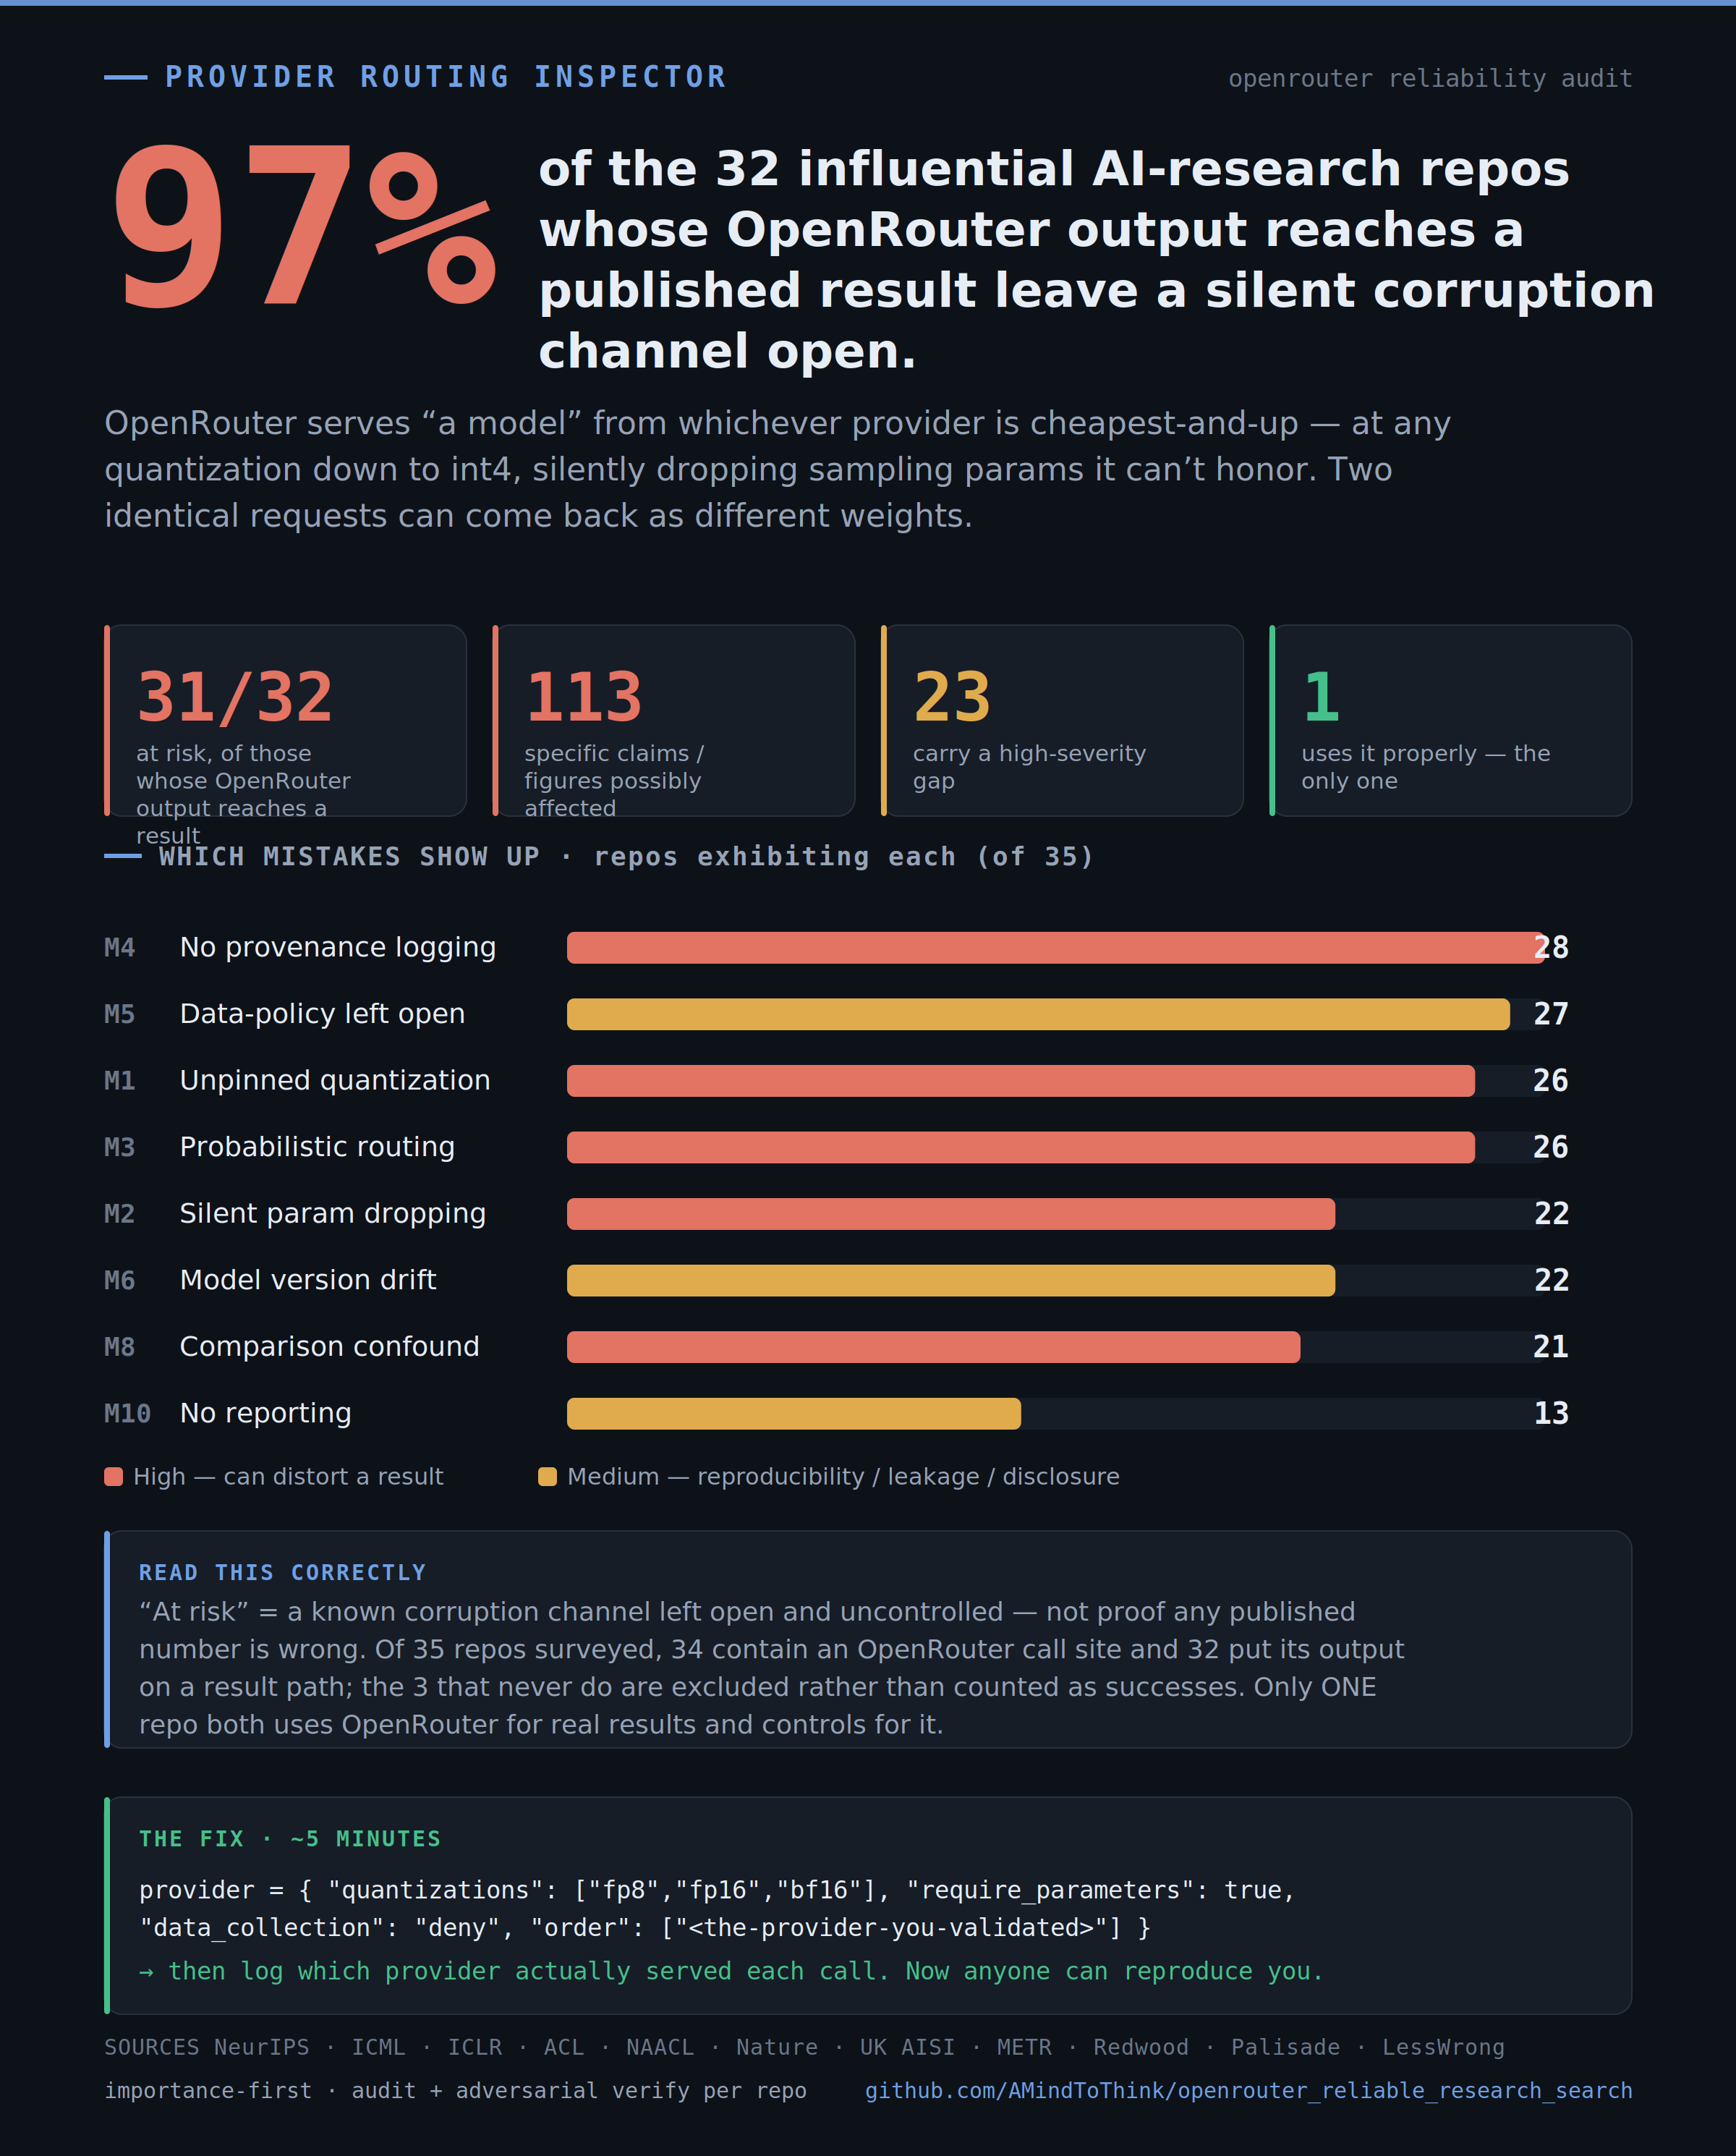
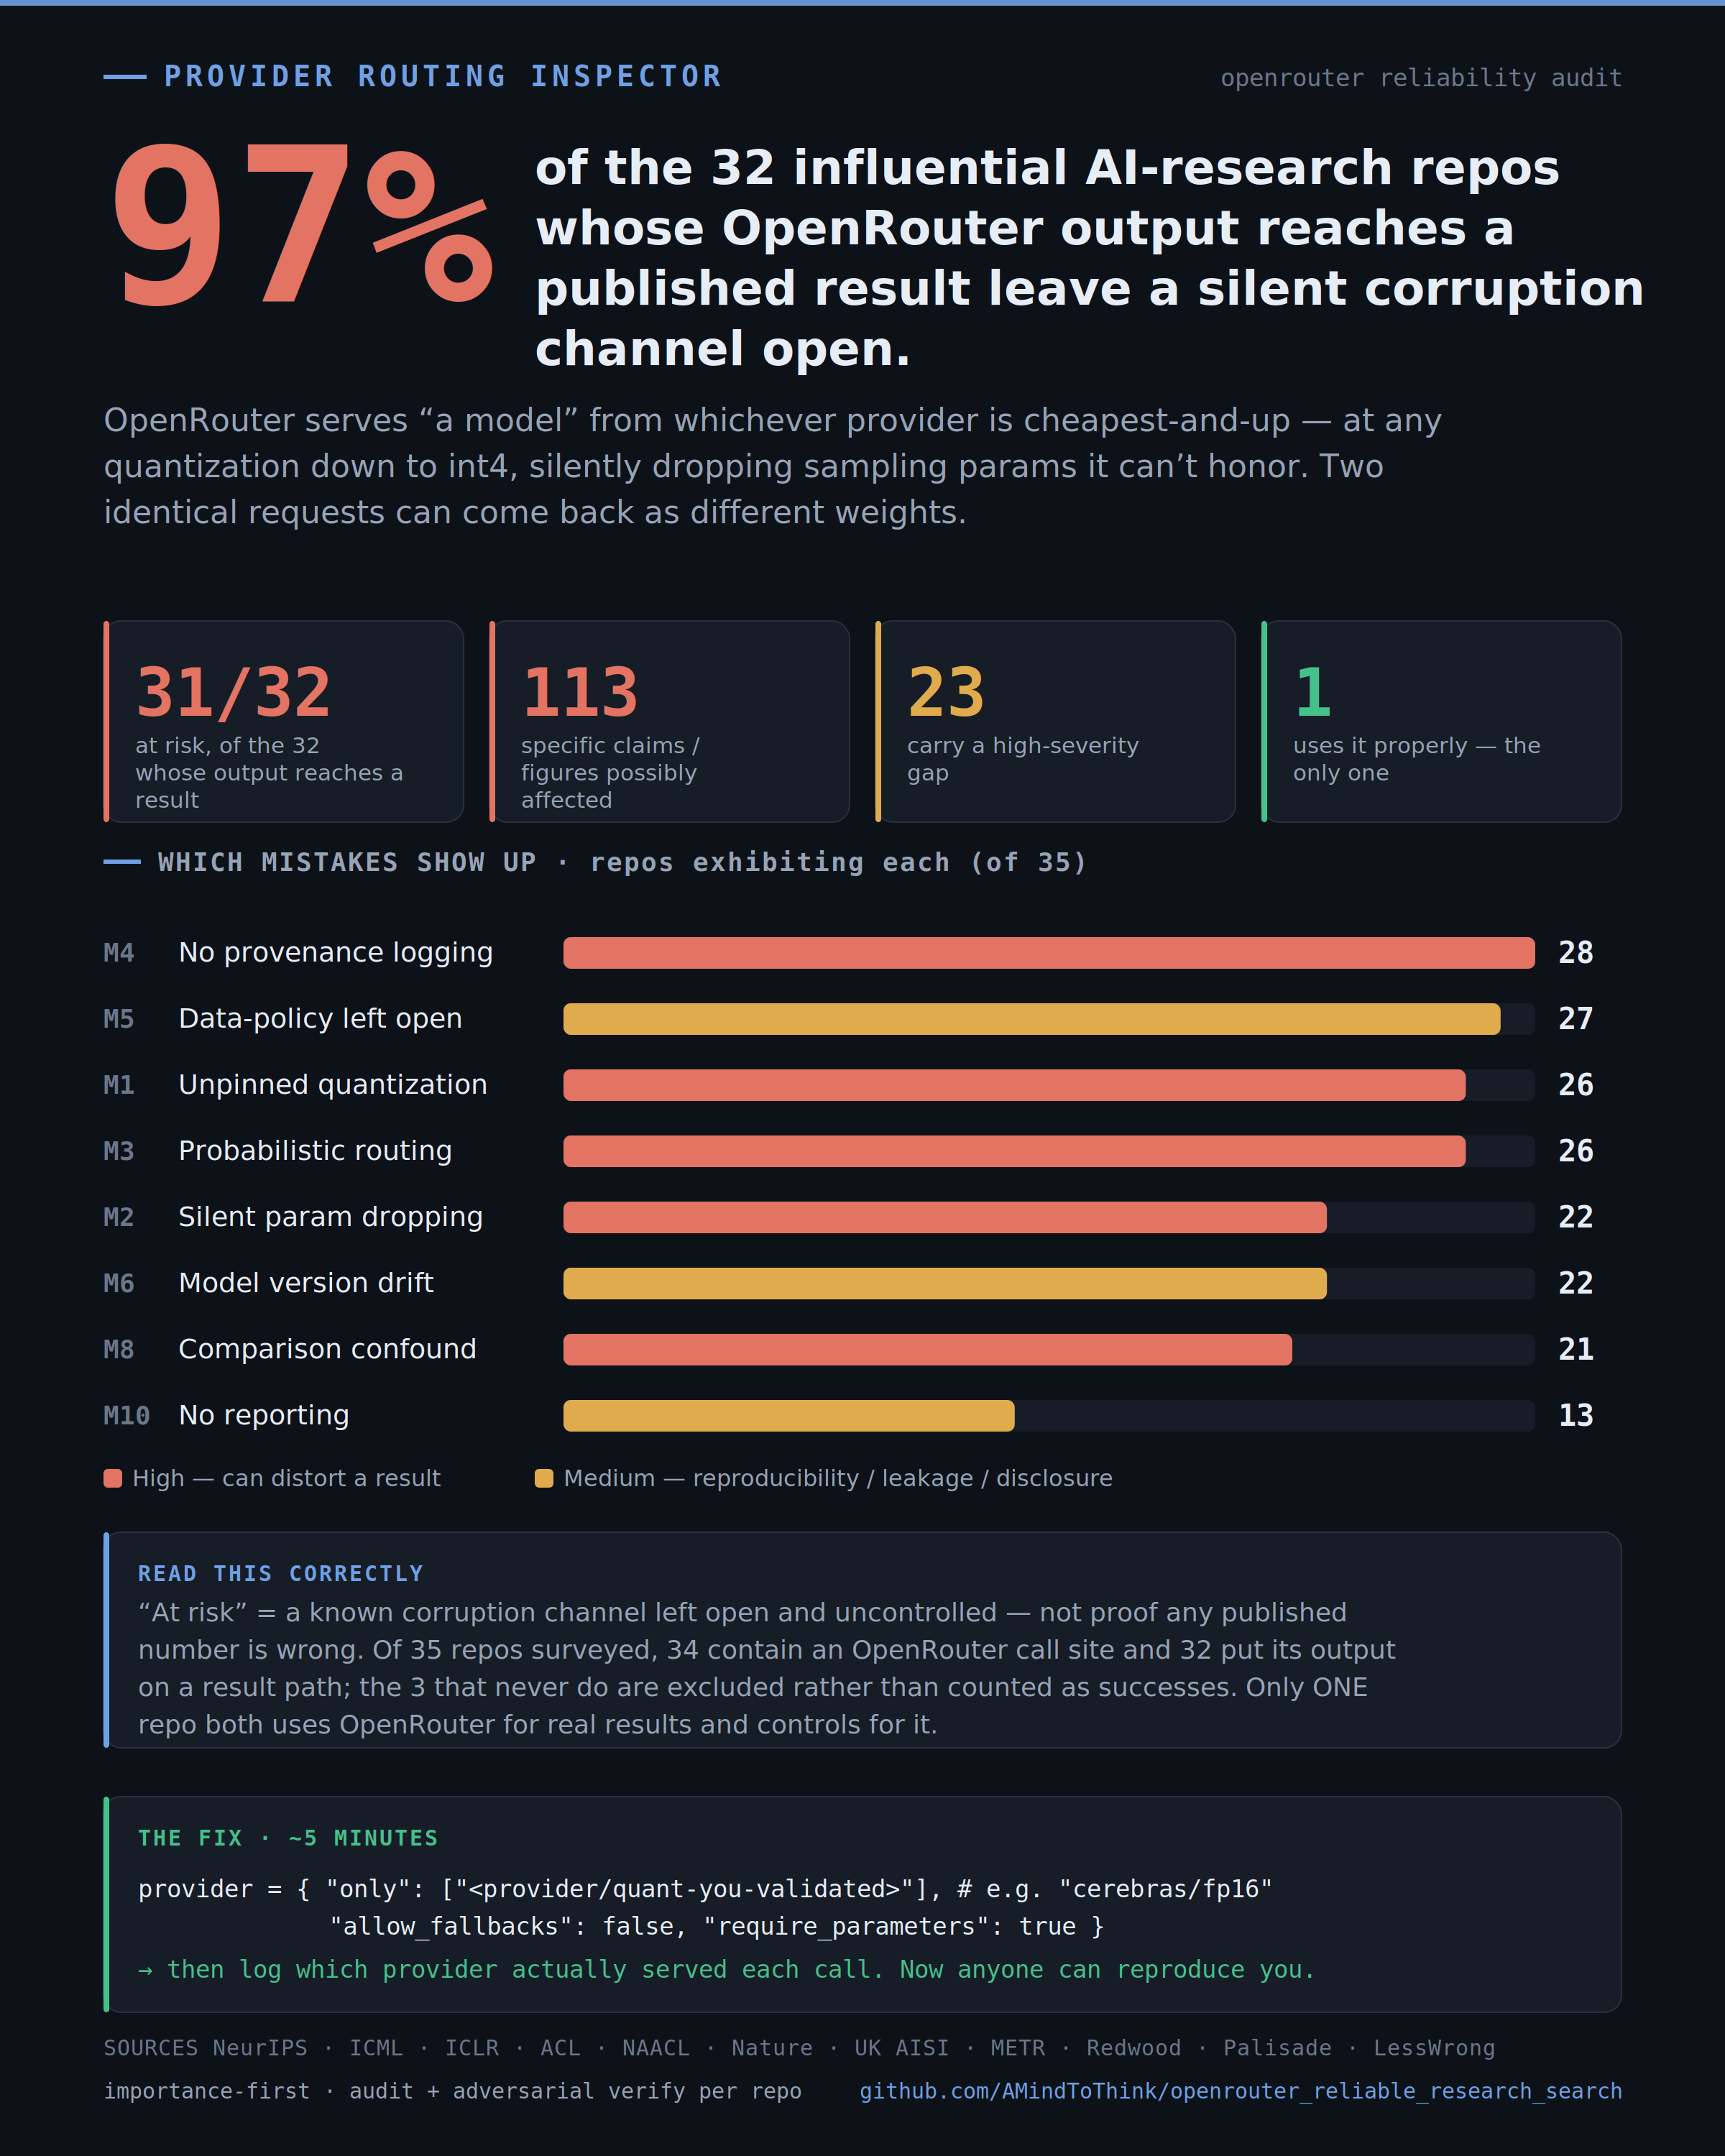
Poster: show the hard pin as THE FIX, and stop text escaping its boxes
The fix panel showed the quantization-floor preset (quantizations list +
order + data_collection) — the exact config the project's own skill and
blog say NOT to lead with for result-bearing research. Replace it with
the canonical hard pin: only:["<provider/quant>"] endpoint tag,
allow_fallbacks:false, require_parameters:true. data_collection is a
privacy knob, not a result-integrity one, so it leaves the poster.

Layout fixes: tile captions no longer overflow (taller tiles, shorter
first caption, loud failure if a caption wraps past 3 lines); bar counts
move fully right of the track instead of overlapping the longest bars;
the code continuation line indents geometrically since SVG collapses
leading spaces.

Claude-Session: https://claude.ai/code/session_017X9fJAWUxTfke6APrKHnS5

diff --git a/scripts/make_poster.py b/scripts/make_poster.py
@@ -45,7 +45,7 @@ SHORT = {"M1":"Unpinned quantization","M2":"Silent param dropping","M3":"Probabi
  "M7":"seed → determinism","M8":"Comparison confound","M9":"Unconstrained judge",
  "M10":"No reporting","M11":"Silent backend mixing","M12":"Cheap route chosen"}
 MONO="DejaVu Sans Mono, monospace"; SANS="DejaVu Sans, sans-serif"
-W, H = 1200, 1490
+W, H = 1200, 1500
 def e(s): return html.escape(str(s), quote=True)
 
 def wrap(text, maxc):
@@ -91,17 +91,20 @@ sub = wrap("OpenRouter serves “a model” from whichever provider is cheapest-
 y = multiline(M, 300, sub, 22, 32, fill=C["muted"])
 
 # stat tiles
-tiles = [(f"{AT_RISK}/{CRIT}", "at risk, of those whose OpenRouter output reaches a result", C["high"]),
+tiles = [(f"{AT_RISK}/{CRIT}", f"at risk, of the {CRIT} whose output reaches a result", C["high"]),
          (str(FINDINGS), "specific claims / figures possibly affected", C["high"]),
          (str(HIGH), "carry a high-severity gap", C["med"]),
          (str(HANDLED), "uses it properly — the only one", C["safe"])]
-ty = 432; th = 132; gap = 18; tw = (W - 2*M - 3*gap) / 4
+ty = 432; th = 140; gap = 18; tw = (W - 2*M - 3*gap) / 4
 for i,(num,lab,col) in enumerate(tiles):
     tx = M + i*(tw+gap)
+    lines = wrap(lab, 22)
+    if len(lines) > 3:
+        raise SystemExit(f"tile label overflows its box ({len(lines)} lines > 3): {lab!r}")
     add(f'<rect x="{tx}" y="{ty}" width="{tw}" height="{th}" rx="12" fill="{C["panel"]}" stroke="{C["border"]}"/>')
     add(f'<rect x="{tx}" y="{ty}" width="4" height="{th}" rx="2" fill="{col}"/>')
     text(tx+22, ty+66, num, 46, col, MONO, "bold")
-    multiline(tx+22, ty+94, wrap(lab, 22), 15.5, 19, fill=C["muted"])
+    multiline(tx+22, ty+92, lines, 15.5, 19, fill=C["muted"])
 
 # mistake bars
 by = ty + th + 60
@@ -121,8 +124,7 @@ for i,(m,c) in enumerate(top):
     add(f'<rect x="{bx}" y="{ry+4}" width="{bw}" height="22" rx="5" fill="{C["panel"]}"/>')
     fillw = max(8, bw * c / maxc)
     add(f'<rect x="{bx}" y="{ry+4}" width="{fillw:.1f}" height="22" rx="5" fill="{col}"/>')
-    text(bx+bw+16, ry+22, str(c), 21, C["ink"], MONO, "bold", anchor="end")
-    text(W-M, ry+22, "", 1)  # spacer
+    text(bx+bw+16, ry+22, str(c), 21, C["ink"], MONO, "bold")
 # legend
 ly = by + 16 + len(top)*rowh + 6
 add(f'<rect x="{M}" y="{ly}" width="13" height="13" rx="3" fill="{C["high"]}"/>')
@@ -147,8 +149,9 @@ fxy = cy + ch + 34; fxh = 150
 add(f'<rect x="{M}" y="{fxy}" width="{W-2*M}" height="{fxh}" rx="12" fill="{C["panel"]}" stroke="{C["border"]}"/>')
 add(f'<rect x="{M}" y="{fxy}" width="4" height="{fxh}" rx="2" fill="{C["safe"]}"/>')
 text(M+24, fxy+34, "THE FIX  ·  ~5 MINUTES", 15, C["safe"], MONO, "bold", spacing="1.5")
-text(M+24, fxy+70, 'provider = { "quantizations": ["fp8","fp16","bf16"],  "require_parameters": true,', 17, C["ink"], MONO)
-text(M+24, fxy+96, '             "data_collection": "deny",  "order": ["<the-provider-you-validated>"] }', 17, C["ink"], MONO)
+text(M+24, fxy+70, 'provider = { "only": ["<provider/quant-you-validated>"],   # e.g. "cerebras/fp16"', 17, C["ink"], MONO)
+# x-offset in place of leading spaces: SVG collapses whitespace, so indent geometrically
+text(M+24+13*10.2, fxy+96, '"allow_fallbacks": false,  "require_parameters": true }', 17, C["ink"], MONO)
 text(M+24, fxy+126, "→ then log which provider actually served each call. Now anyone can reproduce you.", 17, C["safe"], MONO)
 
 # footer